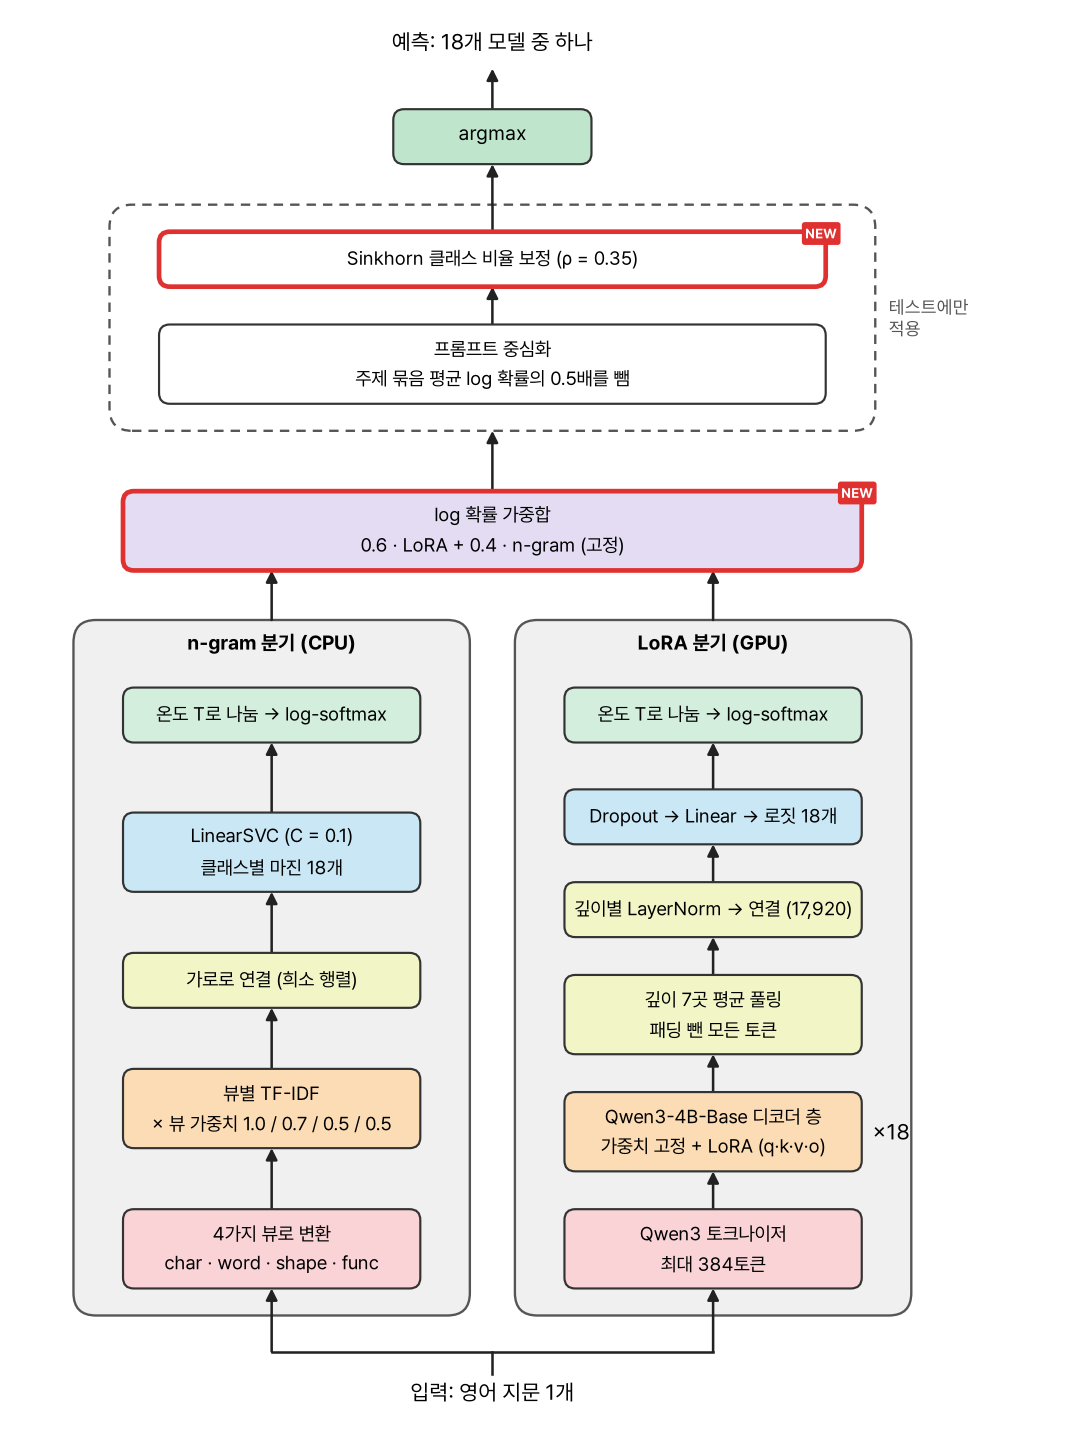
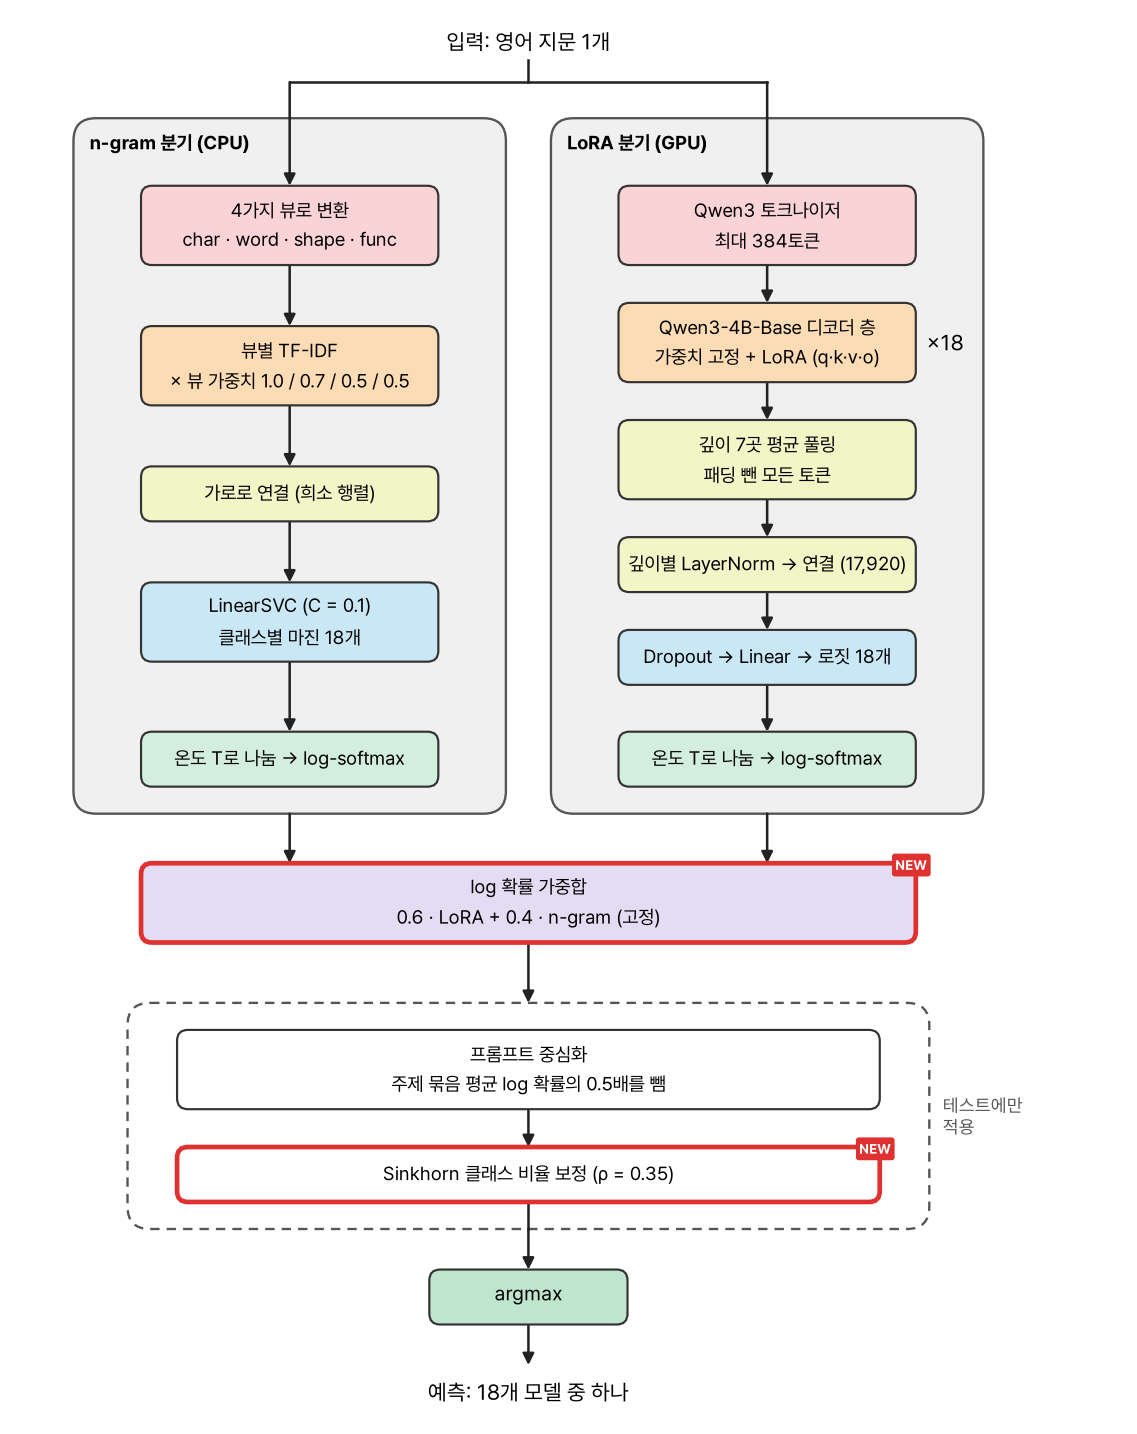
docs: 버전별 구조 그림과 계보 그림을 위에서 아래로 흐르게 바꿈

diff --git a/docs/figures/make_architecture.py b/docs/figures/make_architecture.py
@@ -1,6 +1,6 @@
 """docs/07_architecture_by_version.md의 버전별 구조 그림(arch_v1.png ~ arch_v8.png)을 그립니다.
 
-그림은 아래에서 위로 흐릅니다. 블록 색은 종류를 뜻하고(입력 · 특징 추출 · 풀링/연결 · 분류기 · 확률 · 결합 · 후처리 · 출력),
+그림은 위에서 아래로 흐릅니다(좌표는 아래에서 위로 쌓은 뒤 y축을 뒤집음). 블록 색은 종류를 뜻하고(입력 · 특징 추출 · 풀링/연결 · 분류기 · 확률 · 결합 · 후처리 · 출력),
 직전 버전(계보 기준) 대비 바뀐 블록은 빨간 테두리와 NEW 표시를 붙입니다. 데이터셋 관련 내용은 그림에 넣지 않습니다.
 
 사용: python docs/figures/make_architecture.py
@@ -36,7 +36,7 @@ COLORS = {
     "out": "#bfe6cd",   # 최종 출력 (초록)
 }
 EDGE, NEW = "#333333", "#e03131"
-BOX_W, COL_W, GAP, LINE_H, PAD = 3.3, 4.4, 0.42, 0.27, 0.3
+BOX_W, COL_W, GAP, LINE_H, PAD = 3.3, 4.8, 0.42, 0.27, 0.3
 SCALE = 0.9  # 데이터 1단위 = 0.9인치
 
 
@@ -50,7 +50,7 @@ def draw_box(ax, cx, y, text, kind, new=False, w=BOX_W, fs=10.5):
                                 fc=COLORS[kind], ec=NEW if new else EDGE, lw=2.6 if new else 1.2, zorder=3))
     ax.text(cx, y + h / 2, text, ha="center", va="center", fontsize=fs, zorder=4, linespacing=1.35)
     if new:
-        tag(ax, cx + w / 2 - 0.05, y + h - 0.02)
+        tag(ax, cx + w / 2 - 0.05, y + 0.02)  # y축을 뒤집으므로 화면에서는 상자 위쪽
     return h
 
 
@@ -69,12 +69,12 @@ def group(ax, x0, y0, x1, y1, label, dashed=False, new=False, label_pos="top"):
     ax.add_patch(FancyBboxPatch((x0, y0), x1 - x0, y1 - y0, boxstyle="round,pad=0,rounding_size=0.25",
                                 fc="#ffffff" if dashed else "#f0f0f0", ec=NEW if new else "#555555",
                                 lw=2.4 if new else 1.3, ls=(0, (4, 3)) if dashed else "-", zorder=1))
-    if label_pos == "top":
-        ax.text((x0 + x1) / 2, y1 - 0.25, label, ha="center", va="center", fontsize=11, fontweight="bold", zorder=4)
+    if label_pos == "top":  # 화면 위쪽(= y0) 왼편. 가운데는 들어오는 화살표 자리
+        ax.text(x0 + 0.18, y0 + 0.27, label, ha="left", va="center", fontsize=10.5, fontweight="bold", zorder=4)
     else:
         ax.text(x1 + 0.15, (y0 + y1) / 2, label, ha="left", va="center", fontsize=10, color="#555", zorder=4)
     if new:
-        tag(ax, x1 - 0.1, y1)
+        tag(ax, x1 - 0.1, y0)
 
 
 # ---- 분기 정의 ---------------------------------------------------------------------------------------------
@@ -158,7 +158,7 @@ def draw(version, spec):
     y_in = 0.35
     ax.text((xs[0] + xs[-1]) / 2, y_in, "입력: 영어 지문 1개", ha="center", va="center", fontsize=12)
 
-    # 분기: 아래에서 위로. 맨 위 '온도' 상자는 모든 분기가 같은 높이에 둡니다.
+    # 분기: 흐름 순서대로 y를 늘려 가며 쌓음. 맨 위 '온도' 상자는 모든 분기가 같은 높이에 둡니다.
     y_bus, y0 = y_in + 0.45, y_in + 0.85
     ax.plot([xs[0], xs[-1]], [y_bus, y_bus], color="#222", lw=1.4, zorder=2)
     ax.plot([(xs[0] + xs[-1]) / 2] * 2, [y_in + 0.2, y_bus], color="#222", lw=1.4, zorder=2)
@@ -167,14 +167,15 @@ def draw(version, spec):
         hs = [box_h(b["t"]) for b in br["boxes"]]
         stacks.append(sum(hs) + GAP * (len(hs) - 1))
     body = max(stacks)
-    y_temp = y0 + PAD + body + GAP + 0.1
-    y_top_group = y_temp + box_h(TEMP["t"]) + PAD + 0.45
+    TITLE = 0.45  # 분기 이름 자리
+    y_temp = y0 + PAD + TITLE + body + GAP + 0.1
+    y_top_group = y_temp + box_h(TEMP["t"]) + PAD
 
     tops = []
     for x, br, stack in zip(xs, branches, stacks):
         group(ax, x - COL_W / 2, y0, x + COL_W / 2, y_top_group, br["title"], new=br.get("new", False))
-        arrow(ax, x, y_bus, x, y0 + PAD)
-        y = y0 + PAD
+        arrow(ax, x, y_bus, x, y0 + PAD + TITLE)
+        y = y0 + PAD + TITLE
         n = len(br["boxes"])
         gap = GAP + (body - stack) / n  # 짧은 분기는 간격을 고르게 넓힘
         for i, b in enumerate(br["boxes"]):
@@ -186,7 +187,7 @@ def draw(version, spec):
                 sx = x - COL_W / 2 - 0.45 - BOX_W / 2
                 sh = box_h(s["t"])
                 draw_box(ax, sx, y + h / 2 - sh / 2, s["t"], s["k"], s.get("new", False))
-                ax.text((sx + BOX_W / 2 + x - BOX_W / 2) / 2, y + h / 2 - 0.08, "연결", ha="center", va="top", fontsize=8.5, color="#555")
+                ax.text((sx + BOX_W / 2 + x - BOX_W / 2) / 2, y + h / 2 + 0.1, "연결", ha="center", va="top", fontsize=8.5, color="#555")
                 arrow(ax, sx + BOX_W / 2, y + h / 2, x - BOX_W / 2, y + h / 2)
             y_next = y + h + gap
             if i < n - 1:
@@ -228,6 +229,7 @@ def draw(version, spec):
     total_h = y_end + 1.1
     ax.set_xlim(0, right + 0.4)
     ax.set_ylim(0, total_h)
+    ax.invert_yaxis()  # 위에서 아래로 흐르게
     ax.set_aspect("equal")
     ax.axis("off")
     fig.set_size_inches((right + 0.4) * SCALE, total_h * SCALE)
